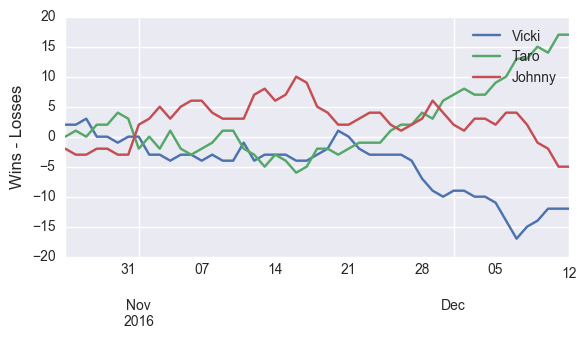
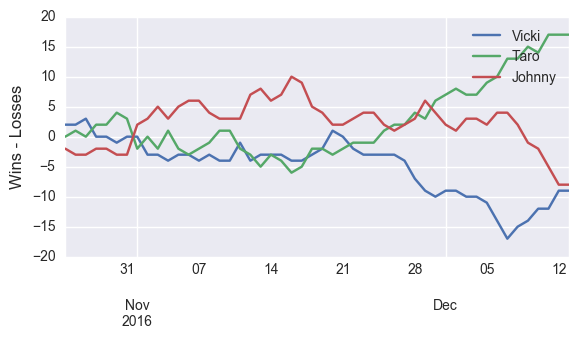
update 12/13

diff --git a/index.html b/index.html
@@ -35,7 +35,7 @@
 <a id="the-bet-is-on" class="anchor" href="#the-bet-is-on" aria-hidden="true"><span aria-hidden="true" class="octicon octicon-link"></span></a>The bet is on.</h1>
 
 <h1>
-<a id="current-winner-of-2016-17-season" class="anchor" href="#current-winner-of-2016-17-season" aria-hidden="true"><span aria-hidden="true" class="octicon octicon-link"></span></a>Current winner of 2016-17 Season (as of 12/12/2016):</h1>
+<a id="current-winner-of-2016-17-season" class="anchor" href="#current-winner-of-2016-17-season" aria-hidden="true"><span aria-hidden="true" class="octicon octicon-link"></span></a>Current winner of 2016-17 Season (as of 12/13/2016):</h1>
 
 <h2>
 <a id="none" class="anchor" href="#none" aria-hidden="true"><span aria-hidden="true" class="octicon octicon-link"></span></a><strong>Taro</strong>
@@ -45,22 +45,22 @@
 <a id="johnny" class="anchor" href="#johnny" aria-hidden="true"><span aria-hidden="true" class="octicon octicon-link"></span></a>Johnny</h2>
 
 <p>Wins: 120<br>
-Losses: 125<br>
-Remaining wins available: 493</p>
+Losses: 128<br>
+Remaining wins available: 490</p>
 
 <h2>
 <a id="taro" class="anchor" href="#taro" aria-hidden="true"><span aria-hidden="true" class="octicon octicon-link"></span></a>Taro</h2>
 
-<p>Wins: 126<br>
-Losses: 109<br>
-Remaining wins available: 497</p>
+<p>Wins: 129<br>
+Losses: 112<br>
+Remaining wins available: 492</p>
 
 <h2>
 <a id="vicki" class="anchor" href="#vicki" aria-hidden="true"><span aria-hidden="true" class="octicon octicon-link"></span></a>Vicki</h2>
 
-<p>Wins: 113<br>
-Losses: 125<br>
-Remaining wins available: 503</p>
+<p>Wins: 117<br>
+Losses: 126<br>
+Remaining wins available: 499</p>
 
 <img src='pythoncode/win_percent.png' alt='Winning Percentage Over Time'>
 <h1>
